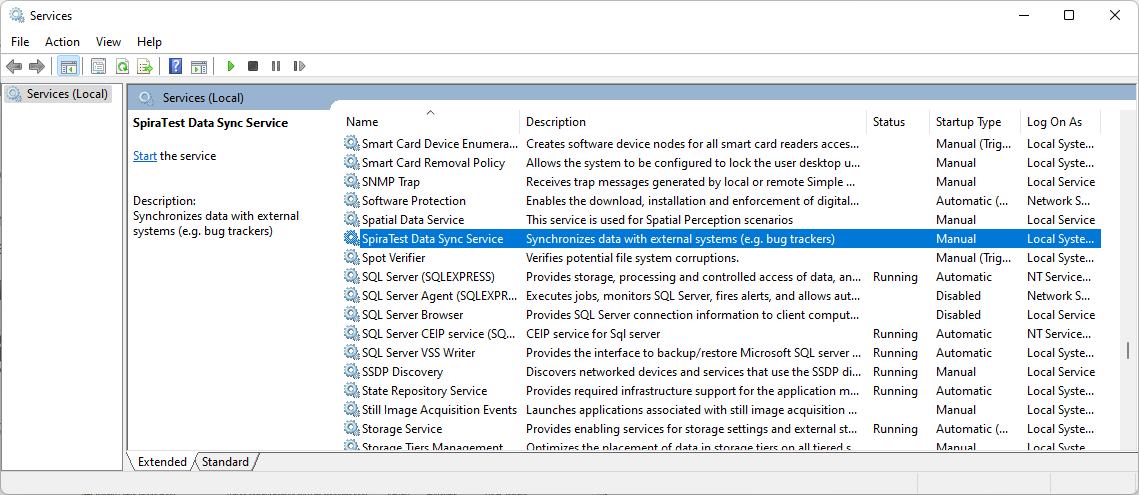
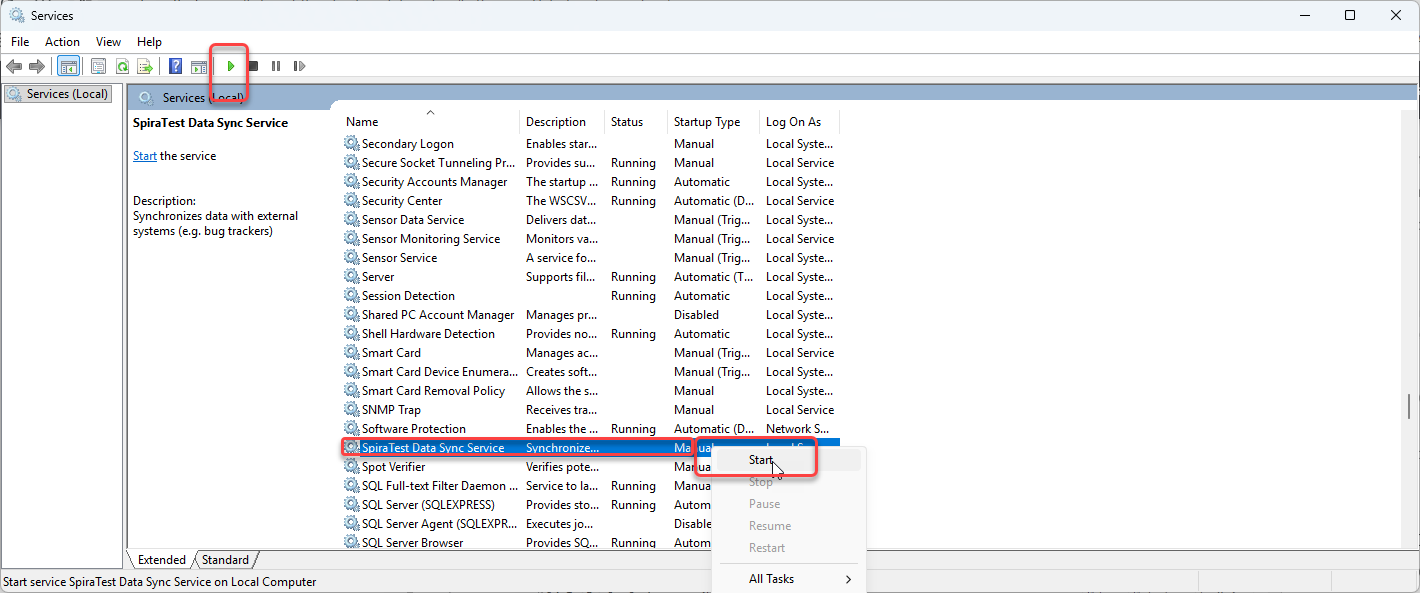
Datasync Setup
Rewrite

Changed region(s): [[0.0, 0.0, 1.0, 1.0], [0.9833, 0.6667, 1.0, 0.7273], [0.5224, 0.9697, 0.5838, 1.0]]

diff --git a/docs/External-Bug-Tracking-Integration/Setting-up-Data-Synchronization.md b/docs/External-Bug-Tracking-Integration/Setting-up-Data-Synchronization.md
@@ -2,22 +2,40 @@
 !!! abstract "Compatible with SpiraTest, SpiraTeam, SpiraPlan"
 
 ## Introduction
-To use any of Inflectra's data sync integrations, you need a special data sync service. This lives outside of Spira and the application it is syncing with. The data sync service needs to run 24/7 to keep everything in sync. It needs to be able to "see" both applications. In addition to the service, there are dedicated plugins for the most popular third-party applications.These plugins work with the data sync service to manage all communication between Spira and the application(s) it syncs with.
 
-We provide you with three different options for this service to sync things for you: 
+To enable data synchronization between Spira and external bug-tracking or agile planning tools, Inflectra utilizes a dedicated Data Synchronization Service. 
 
-- **Cloud** with "Spira Datasync", which runs in Inflectra's cloud
-- built-in **service** with on premise Spira
-- as a standalone "**Desktop** Datasync" application you run on your own server
+This service operates independently of both Spira and your external application. It runs continuously in the background, meaning it must have network access to communicate with both systems simultaneously and needs to run 24/7 to keep everything in sync.
 
-This guide explains what option is right for you, and then gives how to instructions for each of the above 3 options.
+While the service acts as the core engine, it relies on application-specific plugins (such as those for Jira, Azure DevOps, or GitLab). These plugins work alongside the DataSync service to translate the data and manage the exact communication protocols between Spira and your chosen third-party tool.
 
-!!! warning
-    After completing the relevant steps in this guide, make sure to refer to the documentation on this site for the specific application you are syncing with. That will explain how to configure Spira itself for the data sync to work correctly for you.
+Depending on your hosting environment, Inflectra provides three distinct ways to deploy data synchronization:
 
-## Which option to choose
-The table below explains the different options available, as well the option we recommend for each use case. The uses cases vary based on where your Spira and the application Spira is syncing with live (in the cloud or managed by you on premise). 
+- **Cloud Spira DataSync:** A fully managed service that runs directly within Inflectra's secure cloud environment.
+- **On-premisess DataSync Service:** A built-in, background Windows Service included with on-premisess Spira installations.
+- **Desktop DataSync:** A standalone Windows application with a visual interface that you can install and run on your own local server or workstation.
 
+This guide will help you determine which of these three options best fits your architecture and then provide step-by-step instructions for setting up your chosen method.
+
+!!! warning 
+    Getting the service running is only the first half of the integration process. After completing the relevant setup steps in this guide, you must refer to the specific integration documentation for your external application. That documentation will explain how to configure the actual data mapping rules inside Spira, so the sync functions correctly.
+
+## Prerequisite: The Data Sync Service Account
+
+Regardless of which synchronization method you choose, you must provide valid credentials for the service to authenticate with Spira. 
+
+It is highly recommended that you create a **dedicated "Service Account"** user in Spira specifically for this purpose.
+
+To function correctly, this Spira user must meet the following criteria:
+
+- Active Status: The account must be active and have login access to Spira.
+- Dedicated Exclusivity: Do not use the personal credentials of a human team member. A dedicated service account ensures that changes made by the integration are clearly marked in the audit logs (e.g., "Updated by DataSync"), preventing confusion and making troubleshooting much easier.
+- Product Membership: The user must be explicitly added as a member of every Spira product you intend to synchronize.
+- Proper Project Roles: The user must be assigned a Project Role with sufficient permissions to view, create, and modify all artifacts involved in the sync. For example, if you are syncing bugs, the user needs "Create" and "Modify" permissions for Incidents. If they lack these permissions, the sync will fail when trying to write data.
+
+## Choosing Your Synchronization Method
+
+The table below explains the different options available, as well the option we recommend for each use case. The best option depends entirely on where your instance of Spira and your external application are hosted.
 
 | Spira Location | Application to sync with | Recommended data sync option | Other possible options |
 | -------------- | ------------------------ | ---------------------------- | ---------------------- |
@@ -26,94 +44,93 @@ The table below explains the different options available, as well the option we 
 | On premise     | Cloud                    | Datasync **service**         | **Desktop** Datasync   |
 | On premise     | On premise               | Datasync **service**         | **Desktop** Datasync   |
 
-For example, if you use Spira in the cloud, and the application to sync with is also in the cloud, then we recommend you use our Inflectra Cloud data sync. That is because it is the simplest to configure and maintain. However, this may not suit your specific needs, and in that case you can run the Desktop Datasync to manage the data sync yourself, on any Windows machine.
+### Option A: Setup Cloud Spira DataSync
 
-
-## Setup Spira Datasync in the Cloud
 !!! info "Checklist"
     - [x] Spira and the application it syncs with are both in the cloud
-    - [x] [Add the cloud Spira Datasync service](#add-spira-datasync-to-your-hosted-site) to your hosted Spira site
-    - [x] [Configure the Spira Datasync](#configure-the-spira-datasync)
+    - [x] Add the cloud Spira Datasync service to your hosted Spira site
+    - [x] Configure the Spira Datasync
 
- The "Spira DataSync" is a cloud-based data synchronization tool. It is used to synchronize your cloud Spira to a number of cloud-hosted external applications. Setup is straightforward and managed from your **[Customer Area](https://www.inflectra.com/CustomerArea/)** on Inflectra's website. If you do not have access to the customer area, you will need to contact someone at your organization who does have access. They will be able to assist you in configuring any settings.
+Use this option if both your Spira instance and external application are cloud-hosted.
 
-??? question "What is the Inflectra Customer Area?"
-    The [Customer Area](https://www.inflectra.com/CustomerArea/) is your organization's dedicated portal on the Inflectra website for managing your account and subscriptions with us. It is used to:
+The "Spira DataSync" is Inflectra's built-in, cloud-based synchronization tool. It requires no installation, runs on our secure servers, and is managed directly from your [Customer Area](https://www.inflectra.com/CustomerArea) on the Inflectra website.
 
-    - make purchases
-    - change contact information
-    - change subscriptions
-    - configure addons like the "Spira DataSync", Inflectra.ai, or Rapise floating licenses
+!!! info "What is the Inflectra Customer Area?"
 
-    Access to the [Customer Area](https://www.inflectra.com/CustomerArea/) is restricted to very limited set of authorized people in an organization. 
+    The [Customer Area](https://www.inflectra.com/CustomerArea) is your organization's dedicated portal on the Inflectra website for managing your account and subscriptions with us. It is used to make purchases, update contact information, and configure add-ons like the DataSync.
 
-### Add Spira Datasync to your hosted site 
-The Spira Datasync is an optional feature you can add to your cloud-hosted Spira. You can get this feature for trials (free) and production subscriptions (nominal monthly charge). 
+    **Note**: Access to the [Customer Area](https://www.inflectra.com/CustomerArea) is restricted to authorized billing and technical administrators in your organization. If you cannot log in, you will need to ask an authorized administrator to perform these steps.
+
+#### Step 1: Add the Service to your Subscription
+
+The Spira Datasync is an optional feature you can add to your cloud-hosted Spira. You can get this feature for trials (free) and production subscriptions (nominal monthly charge).
 
 If you want, add the Spira Datasync when signing up for the trial or production site.
-![](img/Setting_up_Data_Synchronization_5.png)
 
-Or add it at any time from the Customer Area:
-- find the "My Cloud Subscriptions" section
-- click "Customize" next to the subscription you want to add the Spira Datasync to
-- add the Spira Datasync
+![Add Optional Features](img/Setting_up_Data_Synchronization_5.png)
 
-![](img/Setting_up_Data_Synchronization_5b.png)
+Or add it at any time from the Customer Area: - find the "My Cloud Subscriptions" section - click "Customize" next to the subscription you want to add the Spira Datasync to - add the Spira Datasync
 
-### Configure the Spira Datasync
+![My Cloud Subscriptions](img/Setting_up_Data_Synchronization_5b.png)
+
+#### Step 2: Configure the Service
+
 When the Spira Datasync feature has been successfully added to your cloud Spira, you need to configure it:
 
 - go to the Customer Area at inflectra.com
 - find the "My Cloud Subscriptions" section
 - click the "Configure" button on the Spira Datasync row
 
-![](img/Setting_up_Data_Synchronization_6.png)
+![My Cloud Subscriptions1](img/Setting_up_Data_Synchronization_6.png)
 
-- enter the login and password for a user in your Spira instance (see [guidelines below](#what-user-to-use-for-datasync))
-
-![](img/Setting_up_Data_Synchronization_7.png)
-
+- enter the login and password for a user in your Spira instance (see guidelines below)
 - click the "Test" button to verify the credentials
 - make sure the "Active" flag is checked
 - click "Save"
 
-Now that the cloud configuration is done, you need to complete the datasync setup in Spira itself. These steps will be specific to the application you are syncing with, and can be found on the navigation system for this site. 
+![Test Synchronization](img/Setting_up_Data_Synchronization_7.png)
 
+Now that the cloud configuration is done, you need to complete the datasync setup in Spira itself. These steps will be specific to the application you are syncing with, and can be found on the navigation system for this site.
 
-## Setup the Datasync service on premise
+### Option B: Setup the On-premises DataSync Service
+
 !!! info "Checklist"
+
     - [x] Spira is on premise OR you have installed the standalone service
-    - [x] [Download the plugin](#download-plugins-for-the-service) for the application you will sync with
-    - [x] [Configure the service](#configure-the-service)
-    - [x] [Start the Datasync service](#start-the-datasync-service)
+    - [x] [Download the plugin](https://www.inflectra.com/Downloads/SpiraDataSync_StandaloneService_v8.9.0.0_x64.zip) for the application you will sync with
+    - [x] [Configure the service](https://spiradoc.inflectra.com/External-Bug-Tracking-Integration/Setting-up-Data-Synchronization/#configure-the-service)
+    - [x] Start the Datasync service
 
-When you install Spira on-premise, it comes with a built-in datasync service for Windows. This lets you sync Spira with other applications. If you are using Spira in the cloud, please:
+Use this option if your Spira instance is hosted on-premises, OR if you are using Cloud Spira but need to connect to an on-premisess external application located securely behind your company firewall.
 
-- [download](https://www.inflectra.com/SpiraPlan/Downloads.aspx) the "Standalone Data-Synchronization Windows Service" onto a Windows machine
-- unzip it 
-- run the "InstallService.bat" file to install the service and the config file 
+When you install Spira on-premises, a built-in background Windows Service is included. If you are using Cloud Spira but need to run the service locally, download the "Standalone Data-Synchronization Windows Service" from the Inflectra website, unzip it, and run the InstallService.bat script as an Administrator.
 
-### Download Plugins for the service
-Each application Spira syncs with has a dedicated plugin. This is required for the datasync to work. If the service is like traffic signals, the plugin is the GPS app, making sure the right data goes to the right place in the right way. 
+#### Step 1: Download the Required Plugins
 
-- Go to the [downloads page on the Inflectra website](https://www.inflectra.com/SpiraPlan/Downloads.aspx#BugTrackers)
-- Find the plugin for the application you want to sync Spira with
-- Download the plugin as a zip file to the server where Spira is installed
-- Unzip the zip file, which will contain a number of DLL files
-- Move the DLL files into the folder `{root folder of where Spira is installed}\DataSync`. By default this is likely to be `C:\Program Files (x86)\SpiraPlan\DataSync`, but it may vary based on your setup
-- Check that the folder contains files called "DataSyncService.exe" and "DataSyncService.exe.config"
+The core service acts as the engine, but it requires a specific plugin to understand the API of the external application it is talking to.
 
-### Configure the Service
-The datasync service is configured in an XML based text file. This tells the service, once running, where to look and what to do.
+1. Navigate to the [Downloads page on the Inflectra website](https://www.inflectra.com/SpiraPlan/Downloads.aspx#BugTrackers).
+2. Download the appropriate plugin for your external application as a .zip file to the server where Spira is installed.
+3. Extract the .zip file to reveal several .dll files.
+4. Move these .dll files `{root folder of where Spira is installed}\DataSync`. By default, this is usually: `C:\Program Files (x86)\SpiraPlan\DataSync`, but it may vary based on your setup
+5. Verify that the folder now contains files called `DataSyncService.exe` and `DataSyncService.exe.config`, alongside your new plugin files.
+6. Make sure files are not blocked by Windows due to security
 
-- Go to the folder `{root folder of where Spira is installed}\DataSync`. By default this is likely to be `C:\Program Files (x86)\SpiraPlan\DataSync`, but it may vary based on your setup
-- Find the file called "DataSyncService.exe.config"
-- Open this file in a text editor (it should look similar to below)
+#### Step 2: Configure the Service
 
-```xml
+The Windows Service is configured using an XML based text file. This tells the service, once running, where to look and what to do.
+    
+1. Open your `DataSync installation folder of where Spira is installed}\DataSync` and 
+2. locate the file named DataSyncService.exe.config.
+3. Open this file in a text editor (you may need to run Notepad as an Administrator to save changes).
+
+XML:
+
+```python
+XML
 <?xml version="1.0" encoding="utf-8"?>
 <configuration>
-	<configSections>
+    <configSections>
   <sectionGroup name="applicationSettings" type="System.Configuration.ApplicationSettingsGroup, System, Version=2.0.0.0, Culture=neutral, PublicKeyToken=b77a5c561934e089" >
    <section name="Inflectra.SpiraTest.DataSyncService.Properties.Settings" type="System.Configuration.ClientSettingsSection, System, Version=2.0.0.0, Culture=neutral, PublicKeyToken=b77a5c561934e089" requirePermission="false" />
   </sectionGroup>
@@ -141,92 +158,58 @@ The datasync service is configured in an XML based text file. This tells the ser
   </Inflectra.SpiraTest.DataSyncService.Properties.Settings>
  </applicationSettings>
 </configuration>
-
 ```
+3.	Update the following <value> tags to match your environment:
 
-As you can see above, there are various `<setting>` fields that have a name and then below them a `<value>`. You need to change the *values* for certain *names*:
+o **PollingInterval:** The frequency (in milliseconds) the service checks for new data. We recommend 300000 (5 minutes). Setting this too low (e.g., under 1 minute) can cause heavy unnecessary load on your server and network.
+o **WebServiceUrl:** The base URL to your Spira instance. This is the exact URL you use to access the Spira login screen in your web browser (e.g., http://yourserver/SpiraPlan).
+o **Login & Password:** The credentials for your dedicated Spira service account.
 
-- **name="PollingInterval"**: this tells the service how frequently to check for new data. The value is in milliseconds. We recommend going for 2-5 minutes (e.g. `<value>300000</value>` for 5 minutes). The larger the number, the longer the gap between the service checking for data and the lower the network and server overhead. For two-way syncs, go on the lower end of the range (2 minutes) to avoid the chance of conflicts
-- **name="WebServiceUrl"**: this is the base URL to your Spira instance. It is typically of the form `http://<server name\>/SpiraPlan`. When you go to this URL in the server's browser, the Spira login page should appear.
-- **name="Login"** and **name="Password"**: enter the login and password for a user in your Spira instance (see [guidelines below](#what-user-to-use-for-datasync))
+??? info "Using On-premises TFS:" 
 
+    If you are using the MS-TFS plugin on premise, you will also need to switch over your IIS application pool running Spira to "Enable 32-bit Applications. 
+    
+    You will also need to download the recompiled 32-bit version of the DataSyncService.exe application from our support knowledge base: [KB14 - Using SpiraTeam Data Synchronization with TFS on a 64-bit system](https://www.inflectra.com/Support/KnowledgeBase/KB14.aspx).
 
-??? info "Using on premise TFS"
-    If you are using the MS-TFS plugin on premise, you will also need to switch over your IIS application pool running Spira to "Enable 32-bit Applications. You will also need to download the recompiled 32-bit version of the DataSyncService.exe application from our support knowledge base - [KB14 - Using SpiraTeam Data Synchronization with TFS on a 64-bit system](https://www.inflectra.com/Support/KnowledgeBase/KB14.aspx).
+#### Step 3: Start the Windows Service
 
+By default, the Windows Service is set to "Manual" startup to conserve resources until you are ready.
 
-### Start the Datasync service
-By default, the datasync service is not running. This is to conserve system resource. To make sure that the service is running and will always run:
+1. Open the Services application in Windows (services.msc).
+2. Locate the SpiraTest Data Sync Service.
+3. Right-click the service, open Properties, and change the Startup Type to Automatic (so it survives server reboots).
+4. Click Start to run the service immediately.
 
-- Open the Services application in Windows
-- Find the `SpiraTest Data Sync Service`
-- Right click on the service and set the start up to "Automatic"
-- Make sure the service has started - manually start it if needed
+![Starting Service](img/Setting_up_Data_Synchronization_10.png)
 
-![](img/Setting_up_Data_Synchronization_10.png)
+### Option C: Setup the Desktop DataSync
 
-Now that the datasync service configuration is done, you need to complete the datasync setup in Spira itself. These steps will be specific to the application you are syncing with, and can be found on the navigation system for this site. 
+The "Desktop DataSync" is a standalone Windows application with a visual UI. It works independently of Spira and is especially useful if you want to monitor the sync manually, or if your Spira is in the cloud but the external application is hosted on a local, firewall-protected network.
 
-## Setup the Desktop Datasync
-!!! info "Checklist"
-    - [x] [Install the Desktop Datasync](#install-the-desktop-datasync) on a Microsoft Windows device
-    - [x] [Download the plugin(s)](#download-plugins-for-the-desktop-datasync) for the applications Spira will sync with
-    - [x] [Configure the desktop datasync](#configure-the-desktop-datasync)
+#### Step 1: Install the Desktop DataSync Application
 
+1. Navigate to the Downloads page on the Inflectra website.
+2. Download the Windows Installer (MSI) package for the Desktop DataSync. (Use the standard 64-bit version unless you are syncing with legacy on-premises TFS).
+3. Run the installer on the Windows machine that will host the synchronization.
 
-The "Desktop Datasync" is a standalone Windows application than can be used to run the various datasync plugins. It works independently of Spira, and works with both cloud and on-premise instances of Spira. It is especially useful if your Spira is in the cloud, but the application it is syncing with is not. It can be used in other scenarios as well.
+#### Step 2: Download the Required Plugins
 
-### Install the Desktop Datasync
-- Go to the [downloads page on the Inflectra website](https://www.inflectra.com/SpiraPlan/Downloads.aspx)
-- Find the Windows Installation (MSI) package for the Desktop Datasync (there are 64-bit and 32-bit versions - unless you need to sync with on-premise TFS, use the 64-bit version)
-- Download the installer onto the machine the Desktop Datasync will run from 
-- Go through the installation wizard
+1. Download the specific plugin .zip file for your external application from the Inflectra website.
+2. Extract the .dll files.
+3. Move the .dll files into the root folder where you installed the Desktop DataSync (e.g., C:\Program Files (x86)\Inflectra\Spira Desktop DataSync).
+4. Make sure files are not blocked by Windows due to security
 
-![](img/Setting_up_Data_Synchronization_11.png)
+#### Step 3: Configure and Run via the UI
 
-### Download Plugins for the Desktop Datasync
-Each application Spira syncs with has a dedicated plugin. This is required for the datasync to work. If the desktop datasync is like traffic signals, the plugin is the GPS app, making sure the right data goes to the right place in the right way. 
+1. Go to Start > Programs > Inflectra > Desktop Datasync to launch the application interface.
+2. Fill out the configuration options:
 
-- Go to the [downloads page on the Inflectra website](https://www.inflectra.com/SpiraPlan/Downloads.aspx#BugTrackers)
-- Find the plugin for the application you want to sync Spira with
-- Download the plugin as a zip file to the server where Spira is installed
-- Unzip the zip file, which will contain a number of DLL files
-- Move the DLL files into the folder `{root folder of where Desktop Datasync is installed}`. This is likely to be `C:\Program Files (x86)\Inflectra\Spira Desktop DataSync`, but it may vary based on your setup
-- Check that the folder contains files called "DataSyncService.exe" and "DataSyncService.exe.config"
+- Spira URL: The base URL to your Spira instance (e.g., https://mycompany.spiraservice.net).
+- Username & Password: The credentials for your dedicated Spira service account. Click Test to validate the connection.
+- Polling Interval: Recommended 2-5 minutes.
+- Enable Trace Logging: Leave unchecked for normal use. Enabling this creates highly detailed logs of every data transaction, which is excellent for troubleshooting but will quickly fill up your Windows Event Viewer logs.
+- Continue After Errors: Check this if you want the sync to push past individual item errors (e.g., one specific bug failing to sync) rather than halting the entire synchronization process.
 
-![](img/DesktopDataSync.png)
+3. Click Update to save your settings without starting or Start to save and begin syncing immediately.
 
-### Configure the Desktop Datasync
-- Go to Start > Programs > Inflectra > Desktop Datasync. This launches the application and shows its options screen
-
-![](img/Setting_up_Data_Synchronization_12.png)
-
-
-![](img/Setting_up_Data_Synchronization_13.png)
-
-As you can see above, there are a number of options that you can configure:
-
-- **Spira URL**: enter the URL of the Spira this is the base URL to your Spira instance. It is typically of the form `http://<server name\>/SpiraPlan`. When you go to this URL in the server's browser, the Spira login page should appear.
-- **User Name** and **Password"**: enter the login and password for a user in your Spira instance (see [guidelines below](#what-user-to-use-for-datasync)) and click Test to validate
-- **PollingInterval**: this tells the service how frequently to check for new data. We recommend going for 2-5 minutes. The larger the number, the longer the gap between the service checking for data and the lower the network and server overhead. For two-way syncs, go on the lower end of the range (2 minutes) to avoid the chance of conflicts
-- **Enable Trace Logging**: this is not normally required, but can be useful when verifying data mappings. Leaving it on will fill up the application log, so leave it unchecked in normal use)
-- **Continue After Errors**: if you wish to stop as soon as the Desktop Datasync gets to an error, make sure this is checked. This can be useful to avoid one wrong thing snowballing to many wrong things, but in normal use, one error should not disrupt the whole sync
-
-Once you are happy with the options, click "Update" to save the options, or "Start" to save things and start the datasync immediately. 
-
-Note: if you close the application window, the application will still be running. it ca nbe accessed from the system tray
-
-![](img/Setting_up_Data_Synchronization_15.png)
-
-You can then use the right-click context menu to start synchronization, stop synchronization, view the status (if synchronization is running) or exit the application altogether.
-
-During synchronization, any errors will be logged to the Windows Application Event Log and you can use those logs to diagnose any issues connecting to the external bug-tracker or any data mapping configuration changes that need to be made.
-
-## What user to use for datasync
-!!! question "What user to use for Datasync"
-    This user is used for all data syncing so it is important to pick the right user with the right permissions. To do so, the user should be:
-
-  - an active user in Spira
-  - a "service" account just for data syncing. This means that the user is not used for other purposes (so do not use credentials of someone who uses the tool) - this will help manage permissions and also help with auditing and troubleshooting
-  - a member of all products in Spira you need to sync
-  - using a product role with enough permission to do everything required. They should be able to view, create and modify all artifacts used by the data sync. This is typically releases, incidents, documents, and requirements, but may include other artifacts like test cases or tasks.
+**Note:** If you close the application window, it will minimize and continue running in the background. It can be accessed via the Windows system tray. You can use the right-click context menu from the system tray to start/stop the synchronization, view the current status, or exit the application altogether. Any synchronization errors generated by the Desktop DataSync will be logged to the standard Windows Application Event Log, which you can use to diagnose mapping issues.